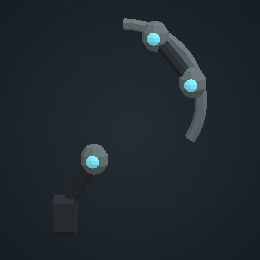
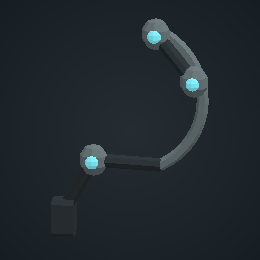
fix(art): connect cranial interface rails and harden Mender mode lookup

diff --git a/client/src/artfx/mender-visual.js b/client/src/artfx/mender-visual.js
@@ -5,7 +5,8 @@ const MODES={triage:0x83d4a7,guard:0x82cce8,assist:0xefb36c,dormant:0x52616a};
 export function menderPose({time=0,speed=0,cast=0,mode='triage',act='idle',reducedMotion=false}={}){
  if(![time,speed,cast].every(Number.isFinite)||time<0)throw Error('invalid Mender pose');
  const active=act==='mending'||act==='bonding'||act==='harrying',k=Math.min(1,Math.max(0,cast)),v=Math.min(1,Math.max(0,speed/6));
- const color=MODES[act==='dormant'?'dormant':mode]??MODES.triage;
+ const modeKey=act==='dormant'?'dormant':mode;
+ const color=Object.hasOwn(MODES,modeKey)?MODES[modeKey]:MODES.triage;
  return {color,hover:reducedMotion?0:Math.sin(time*2.1)*.042,scale:act==='bonded'?.5:1,coreScale:1+(reducedMotion?0:Math.sin(time*(active?7:2.5))*(active?.12:.035))+k*.24,tendrils:Array.from({length:4},(_,i)=>({rootX:v*.5+(reducedMotion?0:Math.sin(time*2+i*1.5)*.16),rootZ:reducedMotion?0:Math.cos(time*1.8+i*1.4)*.15,midX:.23+(reducedMotion?0:Math.sin(time*2.6+i)*.23),tipX:.34+(reducedMotion?0:Math.cos(time*2.1+i)*.24)}))};
 }
 export function makeMenderVisual(THREE,body){

diff --git a/test/art-mender.test.js b/test/art-mender.test.js
@@ -8,6 +8,7 @@ test('Mender presentation is deterministic and mode/act responsive',()=>{
  assert.equal(menderPose({time:3,reducedMotion:true}).hover,0);
  assert.notEqual(menderPose({mode:'guard'}).color,menderPose({mode:'assist'}).color);
  assert.throws(()=>menderPose({time:NaN}));
+ assert.equal(menderPose({mode:'constructor'}).color,menderPose({mode:'triage'}).color);
 });
 test('Mender owns dynamic parts, not carapace resources',()=>{
  const body=new THREE.Group(),geo=new THREE.BoxGeometry(),mat=new THREE.MeshBasicMaterial();body.add(new THREE.Mesh(geo,mat));

diff --git a/docs/art/reviews/04-cranial-interface.md b/docs/art/reviews/04-cranial-interface.md
@@ -13,3 +13,8 @@ Simulated roundtable:
 Executed checks: GLB structure, accessor ranges, finite positions and unit normals, repeat byte equality, extent and triangle budget, invalid input rejection. Neutral software preview generated, not WebGL or final art acceptance.
 - cranial_interface_right: 672 triangles, 3 material batches, 67248 bytes; bounds -0.025, -0.079, -0.040 to -0.001, 0.046, 0.047 m.
 - cranial_interface_left: 672 triangles, 3 material batches, 67240 bytes; bounds 0.001, -0.079, -0.045 to 0.025, 0.046, 0.047 m.
+
+## Cross-package retrospective
+The neutral inspection showed a disconnected lower rail and a mirrored ring orientation that changed fore/aft placement. Added explicit bridges from the rail to both endpoints and held the ring orientation constant across mirrored X sides. Regenerated, structurally checked and compared mirrored bounds; still requires real head fit.
+- cranial_interface_right: 728 triangles, 72624 bytes.
+- cranial_interface_left: 728 triangles, 72616 bytes.

diff --git a/docs/art/reviews/11-mender.md b/docs/art/reviews/11-mender.md
@@ -11,3 +11,5 @@ Simulated roundtable:
 - Retrospective: deliberately avoided clipping-prone outer armour wrapped over an unseen animated donor. A neutral software preview of the static carapace was generated; it omits procedural tendrils and animated lens.
 
 Executed GLB structure, finite/unit normals, deterministic byte equality and 200 procedural pose checks. 2656 triangles, 10 material batches, 263232 bytes. Hosted Three tests staged.
+
+Cross-package adversarial review: mode lookup now requires an own property; inherited object keys such as `constructor` fall back to triage and are covered by a test. This is presentation input hardening, not a gameplay/security assurance.
